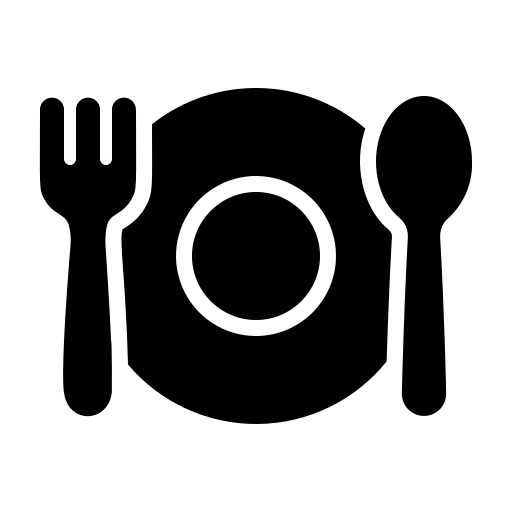
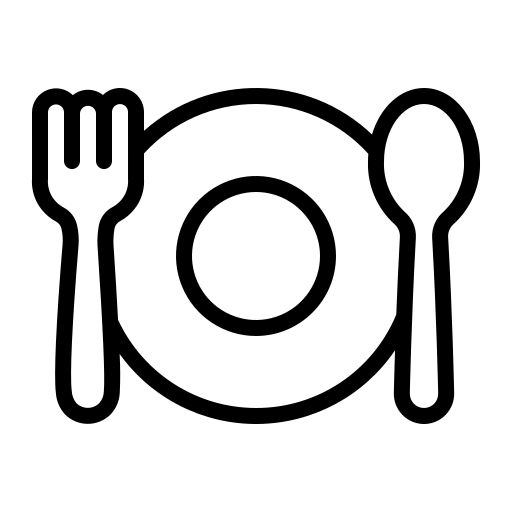
new ud again

diff --git a/bento_layout/index.html b/bento_layout/index.html
@@ -60,7 +60,8 @@
                     <div class="col-12 col-md-4">
                         <div class="p-3 border-0 rounded-4"
                             style="min-height: 259px; background-color: #f8d7e2; color: #4a1023;">
-                            <p>dinner</p>
+                            <p class="fs-5"><b><img src="img/night.png" alt="Moon icon" class="me-2 align-middle"
+                                        style="width: 28px;">Dinner</b></p>
                         </div>
                     </div>
                 </div>
